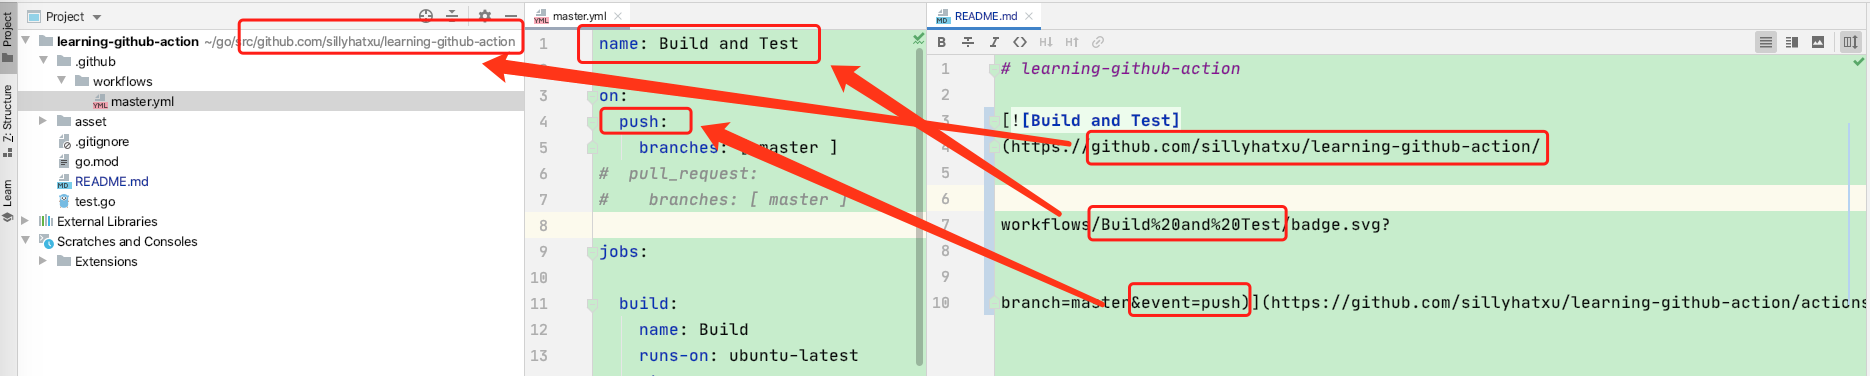
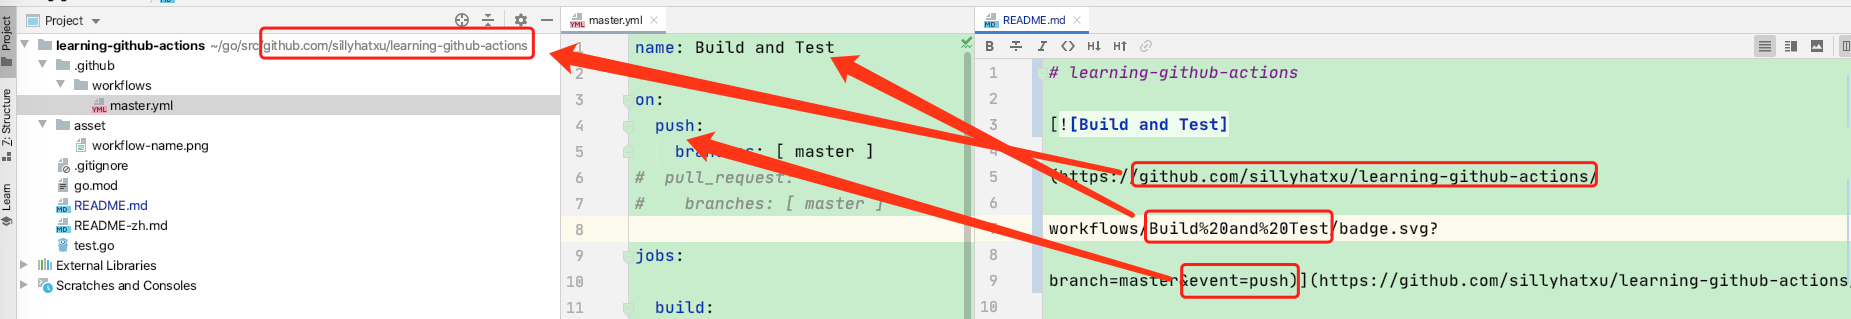
add README-zh.md

diff --git a/README-zh.md b/README-zh.md
@@ -1,10 +1,14 @@
-# learning-github-action
+# learning-github-actions
 
-[![Build and Test](https://github.com/sillyhatxu/learning-github-action/workflows/Build%20and%20Test/badge.svg?branch=master&event=push)](https://github.com/sillyhatxu/learning-github-action/actions)
+[![Build and Test](https://github.com/sillyhatxu/learning-github-actions/workflows/Build%20and%20Test/badge.svg?branch=master&event=push)](https://github.com/sillyhatxu/learning-github-actions/actions)
 
 ## 新增workflows
 
-### 新增文件 `.github/workflows/master.yml`
+新增文件 `.github/workflows/master.yml`
+
+创建后，系统会在Actions中显示build
+
+1. 直接创建
 
 ```yaml
 name: Build and Test
@@ -39,7 +43,20 @@ jobs:
         run: go test -v .
 ```
 
-### 或者你也可以在页面操作
+2. 页面操作新增文件
+
+![](https://github.com/sillyhatxu/learning-github-actions/blob/master/asset/page-add-workflows-01.png)
+
+![](https://github.com/sillyhatxu/learning-github-actions/blob/master/asset/page-add-workflows-02.png)
+
+![](https://github.com/sillyhatxu/learning-github-actions/blob/master/asset/page-add-workflows-03.png)
 
 
 
+
+
+## 添加 badges
+
+### 添加 build and test badge
+
+![](https://github.com/sillyhatxu/learning-github-actions/blob/master/asset/workflow-name.png)

diff --git a/README.md b/README.md
@@ -1,6 +1,5 @@
-# learning-github-action
+# learning-github-actions
 
-[![Build and Test](https://github.com/sillyhatxu/learning-github-action/workflows/Build%20and%20Test/badge.svg?branch=master&event=push)](https://github.com/sillyhatxu/learning-github-action/actions)
+[![Build and Test](https://github.com/sillyhatxu/learning-github-actions/workflows/Build%20and%20Test/badge.svg?branch=master&event=push)](https://github.com/sillyhatxu/learning-github-actions/actions)
 
-## 新增workflows
 
